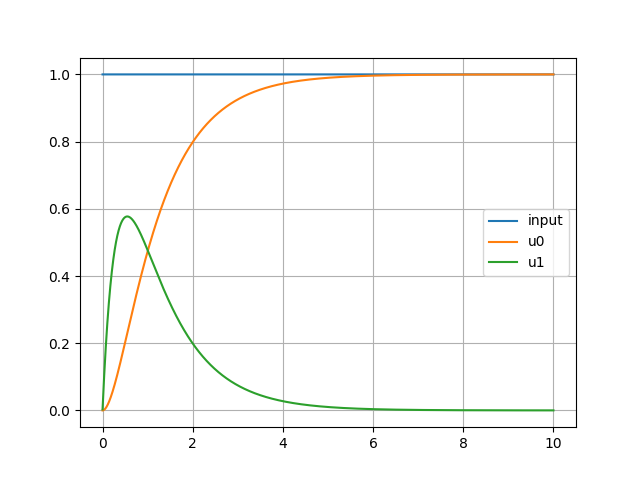
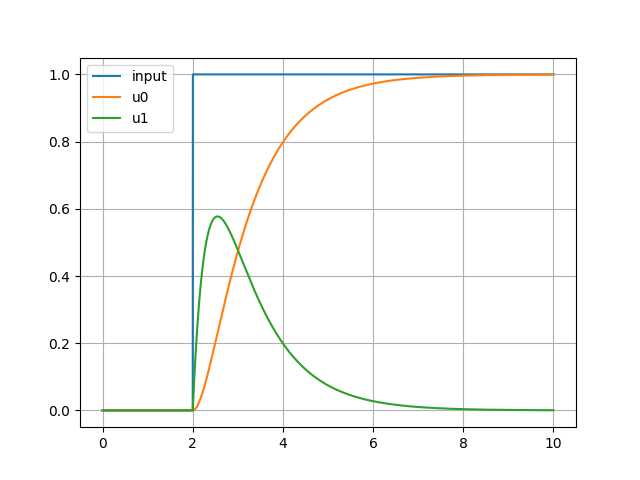
fix bugs

diff --git a/test2.py b/test2.py
@@ -7,7 +7,7 @@ from tosys import State, System, InputSignal
 R = 1  # Ohm
 L = 0.25  # H
 C = 1.3333  # F
-ui = 1    # v
+# ui = 1(t-2)    # v
 
 """ 
 uc0' = uc1  
@@ -15,8 +15,9 @@ uc1' = uc2 = 3*ui - 3*uc - 4*uc1
 """
 
 
-input = InputSignal.heaviside()  # 阶跃信号
-sys = System(0, 10, .001, input)
+heaviside = InputSignal.heaviside()  # 阶跃信号
+delay = InputSignal.delay(2)
+sys = System(0, 10, .001, input = lambda t: heaviside(delay(t)))
 sys.addState(State("u0", 0, lambda t, state: state['u1']))
 sys.addState(State("u1", 0, lambda t, state: sys.input(t)*3 - 3*state['u0'] - 4*state['u1']))
 

diff --git a/tosys/inputsignal.py b/tosys/inputsignal.py
@@ -49,7 +49,7 @@ class InputSignal():
 
         def h(t):
             nonlocal _flag
-            if _flag and (t < 0):
+            if _flag and (t <= 0):
                 return 0
             else:
                 _flag = False

diff --git a/README.md b/README.md
@@ -63,12 +63,11 @@ uc0' = uc1
 uc1' = uc2 = 3*ui - 3*uc - 4*uc1  
 """
 
-
-input = InputSignal.heaviside()  # 阶跃信号
-sys = System(0, 10, .001, input)
+heaviside = InputSignal.heaviside()  # 阶跃信号
+delay = InputSignal.delay(2)  # 延时两秒
+sys = System(0, 10, .001, input = lambda t: heaviside(delay(t)))
 sys.addState(State("u0", 0, lambda t, state: state['u1']))
 sys.addState(State("u1", 0, lambda t, state: sys.input(t)*3 - 3*state['u0'] - 4*state['u1']))
-
 
 sys.RK4()
 sys.draw()
